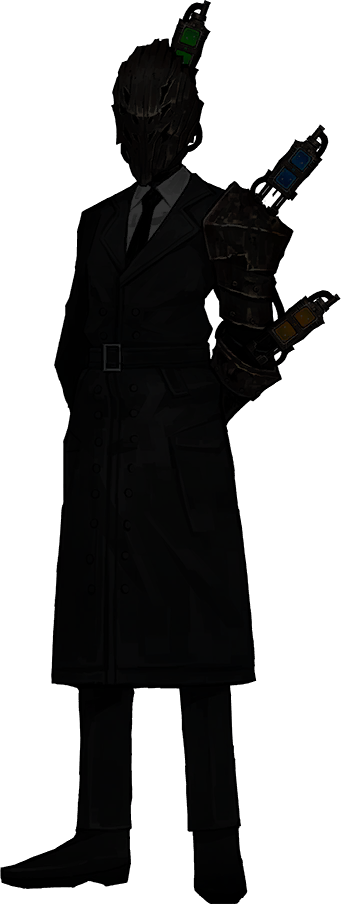
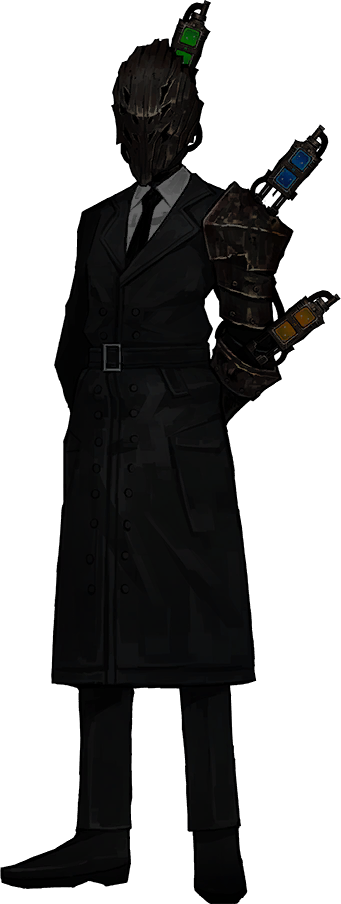
Funky cutscene time

diff --git a/src/main/java/ruina/monsters/theHead/dialogue/HeadDialogue.java b/src/main/java/ruina/monsters/theHead/dialogue/HeadDialogue.java
@@ -16,8 +16,11 @@ import com.megacrit.cardcrawl.vfx.AbstractGameEffect;
 import ruina.RuinaMod;
 import ruina.monsters.theHead.Baral;
 import ruina.monsters.theHead.Zena;
+import ruina.monsters.theHead.dialogue.speaker.*;
 import ruina.monsters.uninvitedGuests.normal.argalia.monster.Roland;
 import ruina.util.TexLoader;
+
+import java.util.ArrayList;
 
 public class HeadDialogue extends AbstractGameEffect {
     public static final String ID = HeadDialogue.class.getSimpleName();
@@ -25,41 +28,35 @@ public class HeadDialogue extends AbstractGameEffect {
     public static final String NAME = eventStrings.NAME;
     public static final String[] DESCRIPTIONS = eventStrings.DESCRIPTIONS;
     public static final String[] OPTIONS = eventStrings.OPTIONS;
-    private final TextureRegion BARAL;
-    private final String baralName = CardCrawlGame.languagePack.getMonsterStrings(RuinaMod.makeID(Baral.class.getSimpleName())).NAME;
-    private final TextureRegion ZENA;
-    private final String zenaName = CardCrawlGame.languagePack.getMonsterStrings(RuinaMod.makeID(Zena.class.getSimpleName())).NAME;
-    private final TextureRegion ROLAND;
-    private final String rolandName = CardCrawlGame.languagePack.getMonsterStrings(RuinaMod.makeID(Roland.class.getSimpleName())).NAME;
     private final TextureRegion KETER;
     private final RoomEventDialog roomEventText = new RoomEventDialog();
     private int dialogue;
     private Hitbox hb;
     private boolean show;
     private int end;
-    private String speaker;
+    private ArrayList<AbstractSpeaker> characters = new ArrayList<>();
+    private int charsOnScreen;
 
     public HeadDialogue(int start, int end) {
-        Texture BARAL_TEXTURE = TexLoader.getTexture(RuinaMod.makeUIPath("Baral.png"));
-        BARAL = new TextureRegion(BARAL_TEXTURE);
-        Texture ZENA_TEXTURE = TexLoader.getTexture(RuinaMod.makeUIPath("Zena.png"));
-        ZENA = new TextureRegion(ZENA_TEXTURE);
-        Texture ROLAND_TEXTURE = TexLoader.getTexture(RuinaMod.makeUIPath("Roland.png"));
-        ROLAND = new TextureRegion(ROLAND_TEXTURE);
-        Texture KETER_TEXTURE = TexLoader.getTexture(RuinaMod.makeScenePath("Keter.png"));
+        Texture KETER_TEXTURE = TexLoader.getTexture(RuinaMod.makeScenePath("KeterDialogue.png"));
         KETER = new TextureRegion(KETER_TEXTURE);
         this.dialogue = start;
         this.end = end;
-        speaker = OPTIONS[dialogue];
         this.hb = new Hitbox(Settings.WIDTH, Settings.HEIGHT);
         this.hb.x = 0.0F;
         this.hb.y = 0.0F;
         this.show = true;
+        characters.add(new ts_Baral());
+        characters.add(new ts_Zena());
+        characters.add(new ts_Roland());
+        characters.add(new ts_Gebura());
+        characters.add(new ts_Binah());
     }
 
     public void update() {
         if (this.show) {
             this.show = false;
+            calculateSpeakers();
             AbstractDungeon.isScreenUp = true;
             this.roomEventText.show(DESCRIPTIONS[this.dialogue]);
         }
@@ -81,7 +78,7 @@ public class HeadDialogue extends AbstractGameEffect {
 //        }
         if (this.dialogue < end) {
             this.dialogue++;
-            speaker = OPTIONS[dialogue];
+            calculateSpeakers();
             this.roomEventText.updateBodyText(DESCRIPTIONS[this.dialogue]);
         } else {
             AbstractDungeon.isScreenUp = false;
@@ -92,21 +89,22 @@ public class HeadDialogue extends AbstractGameEffect {
     public void render(SpriteBatch sb) {
         sb.setColor(Color.WHITE.cpy());
         sb.draw(KETER, 0.0F, 0.0F, 0.0f, 0.0f, KETER.getRegionWidth(), KETER.getRegionHeight(), Settings.scale, Settings.scale, 0.0f);
-        if (speaker.equals(zenaName)) {
-            drawSprite(sb, ZENA);
-        } else if (speaker.equals(baralName)) {
-            drawSprite(sb, BARAL);
-        } else if (speaker.equals(rolandName)) {
-            drawSprite(sb, ROLAND);
-        }
+        for(AbstractSpeaker s : characters){ s.render(sb, charsOnScreen); }
         this.roomEventText.render(sb);
-    }
-
-    public void drawSprite(SpriteBatch sb, TextureRegion texture) {
-        sb.draw(texture, Settings.WIDTH * 0.75F - ((float)texture.getRegionWidth() / 2), 0.0f, (float)texture.getRegionWidth() / 2, 0.0f, texture.getRegionWidth(), texture.getRegionHeight(), Settings.scale, Settings.scale, 0.0f);
     }
 
     public void dispose() {
         this.roomEventText.clear();
     }
+
+    public void calculateSpeakers(){
+        charsOnScreen = 0;
+        String[] speakerData = OPTIONS[dialogue].split("_");
+        for(AbstractSpeaker s: characters){
+            s.setTexture(speakerData[1]);
+            s.setShowBasedOnCharList(speakerData[0]);
+            if(s.getShow()){ charsOnScreen += 1; }
+        }
+    }
+
 }

diff --git a/src/main/java/ruina/monsters/theHead/dialogue/AbstractSpeaker.java b/src/main/java/ruina/monsters/theHead/dialogue/AbstractSpeaker.java
@@ -1,0 +1,39 @@
+package ruina.monsters.theHead.dialogue;
+
+import com.badlogic.gdx.graphics.Texture;
+import com.badlogic.gdx.graphics.g2d.SpriteBatch;
+import com.badlogic.gdx.graphics.g2d.TextureRegion;
+import com.megacrit.cardcrawl.core.Settings;
+
+public abstract class AbstractSpeaker {
+
+    public Texture speakingSprite;
+    public Texture idleSprite;
+    private TextureRegion activeSprite;
+    private boolean speaking;
+    public String internalSpeakerKey;
+    public String internalSpeakerName;
+
+    private boolean show = false;
+
+    public AbstractSpeaker(){
+
+    }
+
+    public void setTexture(String passedKey){
+        speaking = internalSpeakerKey.equals(passedKey);
+        activeSprite = speaking ? new TextureRegion(idleSprite) : new TextureRegion(speakingSprite);
+    }
+
+    public void render(SpriteBatch sb, int charsOnScreen){
+        if(show){
+            drawSprite(sb, activeSprite);
+        }
+    }
+
+    public void drawSprite(SpriteBatch sb, TextureRegion texture) { sb.draw(texture, Settings.WIDTH * 0.75F - ((float)texture.getRegionWidth() / 2), 0.0f, (float)texture.getRegionWidth() / 2, 0.0f, texture.getRegionWidth(), texture.getRegionHeight(), Settings.scale, Settings.scale, 0.0f); }
+
+    public void setShowBasedOnCharList(String characters){ show = characters.contains(internalSpeakerName); }
+
+    public boolean getShow(){ return show;}
+}

diff --git a/src/main/java/ruina/monsters/theHead/dialogue/speaker/ts_Roland.java b/src/main/java/ruina/monsters/theHead/dialogue/speaker/ts_Roland.java
@@ -1,0 +1,21 @@
+package ruina.monsters.theHead.dialogue.speaker;
+
+import com.badlogic.gdx.graphics.g2d.SpriteBatch;
+import com.badlogic.gdx.graphics.g2d.TextureRegion;
+import com.megacrit.cardcrawl.core.Settings;
+import ruina.RuinaMod;
+import ruina.monsters.theHead.dialogue.AbstractSpeaker;
+import ruina.util.TexLoader;
+
+public class ts_Roland extends AbstractSpeaker {
+
+    public ts_Roland(){
+        idleSprite = TexLoader.getTexture(RuinaMod.makeUIPath("Roland.png"));
+        speakingSprite = TexLoader.getTexture(RuinaMod.makeUIPath("Roland_nospeak.png"));
+        internalSpeakerName = "Roland";
+        internalSpeakerKey = internalSpeakerName + "Speak";
+    }
+
+    public void drawSprite(SpriteBatch sb, TextureRegion texture) { sb.draw(texture, Settings.WIDTH * 0.75F - ((float)texture.getRegionWidth() / 0.75f), 0.0f, (float)texture.getRegionWidth() / 2, 0.0f, texture.getRegionWidth(), texture.getRegionHeight(), Settings.scale, Settings.scale, 0.0f); }
+
+}

diff --git a/src/main/java/ruina/monsters/theHead/dialogue/speaker/ts_Baral.java b/src/main/java/ruina/monsters/theHead/dialogue/speaker/ts_Baral.java
@@ -1,0 +1,21 @@
+package ruina.monsters.theHead.dialogue.speaker;
+
+import com.badlogic.gdx.graphics.g2d.SpriteBatch;
+import com.badlogic.gdx.graphics.g2d.TextureRegion;
+import com.megacrit.cardcrawl.core.Settings;
+import ruina.RuinaMod;
+import ruina.monsters.theHead.dialogue.AbstractSpeaker;
+import ruina.util.TexLoader;
+
+public class ts_Baral extends AbstractSpeaker {
+
+    public ts_Baral(){
+        idleSprite = TexLoader.getTexture(RuinaMod.makeUIPath("Baral.png"));
+        speakingSprite = TexLoader.getTexture(RuinaMod.makeUIPath("Baral_nospeak.png"));
+        internalSpeakerName = "Baral";
+        internalSpeakerKey = internalSpeakerName + "Speak";
+    }
+
+    public void drawSprite(SpriteBatch sb, TextureRegion texture) { sb.draw(texture, Settings.WIDTH * 0.75F - ((float)texture.getRegionWidth() / 3), 0.0f, (float)texture.getRegionWidth() / 3, 0.0f, texture.getRegionWidth(), texture.getRegionHeight(), Settings.scale, Settings.scale, 0.0f); }
+
+}

diff --git a/src/main/java/ruina/monsters/theHead/dialogue/speaker/ts_Zena.java b/src/main/java/ruina/monsters/theHead/dialogue/speaker/ts_Zena.java
@@ -1,0 +1,18 @@
+package ruina.monsters.theHead.dialogue.speaker;
+
+import com.badlogic.gdx.graphics.g2d.SpriteBatch;
+import ruina.RuinaMod;
+import ruina.monsters.theHead.Zena;
+import ruina.monsters.theHead.dialogue.AbstractSpeaker;
+import ruina.util.TexLoader;
+
+public class ts_Zena extends AbstractSpeaker {
+
+    public ts_Zena(){
+        idleSprite = TexLoader.getTexture(RuinaMod.makeUIPath("Zena.png"));
+        speakingSprite = TexLoader.getTexture(RuinaMod.makeUIPath("Zena_nospeak.png"));
+        internalSpeakerName = "Zena";
+        internalSpeakerKey = internalSpeakerName + "Speak";
+    }
+
+}

diff --git a/src/main/java/ruina/monsters/theHead/dialogue/speaker/ts_Gebura.java b/src/main/java/ruina/monsters/theHead/dialogue/speaker/ts_Gebura.java
@@ -1,0 +1,17 @@
+package ruina.monsters.theHead.dialogue.speaker;
+
+import com.badlogic.gdx.graphics.g2d.SpriteBatch;
+import ruina.RuinaMod;
+import ruina.monsters.theHead.dialogue.AbstractSpeaker;
+import ruina.util.TexLoader;
+
+public class ts_Gebura extends AbstractSpeaker {
+
+    public ts_Gebura(){
+        idleSprite = TexLoader.getTexture(RuinaMod.makeUIPath("Gebura.png"));
+        speakingSprite = TexLoader.getTexture(RuinaMod.makeUIPath("Gebura_nospeak.png"));
+        internalSpeakerName = "Gebura";
+        internalSpeakerKey = internalSpeakerName + "Speak";
+    }
+
+}

diff --git a/src/main/java/ruina/monsters/theHead/dialogue/speaker/ts_Binah.java b/src/main/java/ruina/monsters/theHead/dialogue/speaker/ts_Binah.java
@@ -1,0 +1,17 @@
+package ruina.monsters.theHead.dialogue.speaker;
+
+import com.badlogic.gdx.graphics.g2d.SpriteBatch;
+import ruina.RuinaMod;
+import ruina.monsters.theHead.dialogue.AbstractSpeaker;
+import ruina.util.TexLoader;
+
+public class ts_Binah extends AbstractSpeaker {
+
+    public ts_Binah(){
+        idleSprite = TexLoader.getTexture(RuinaMod.makeUIPath("Binah.png"));
+        speakingSprite = TexLoader.getTexture(RuinaMod.makeUIPath("Binah_nospeak.png"));
+        internalSpeakerName = "Binah";
+        internalSpeakerKey = internalSpeakerName + "Speak";
+    }
+
+}

diff --git a/src/main/java/ruina/monsters/theHead/Baral.java b/src/main/java/ruina/monsters/theHead/Baral.java
@@ -321,7 +321,7 @@ public class Baral extends AbstractCardMonster
         });
         atb(new RollMoveAction(this));
 
-        if (GameActionManager.turn == 2) {
+        if (GameActionManager.turn == 3) {
             atb(new AbstractGameAction() {
                 @Override
                 public void update() {
